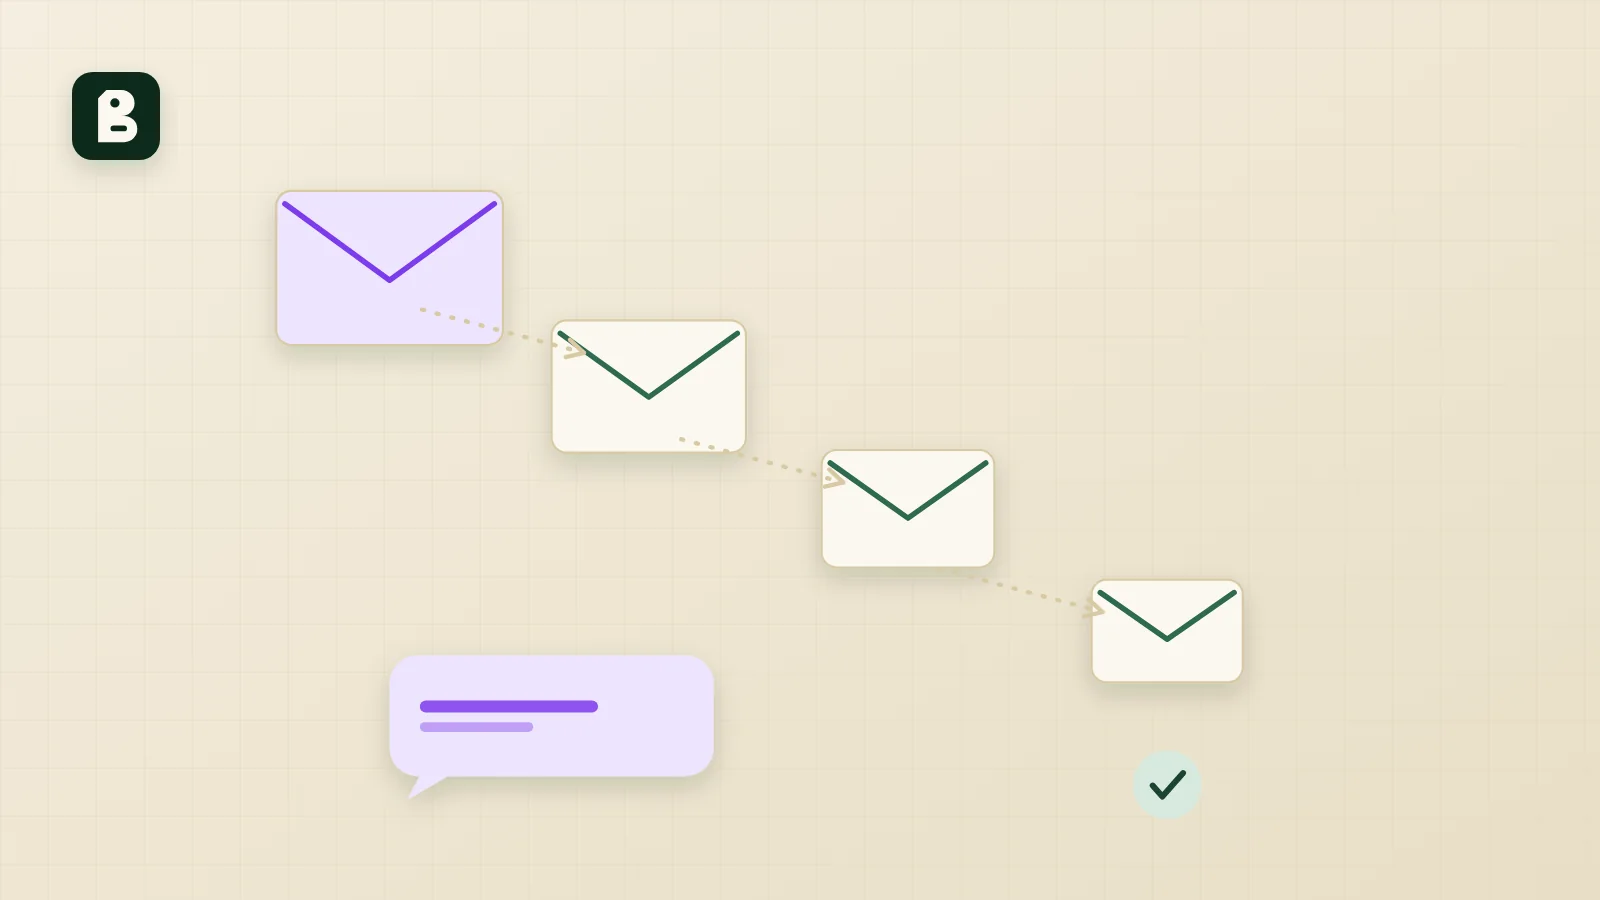
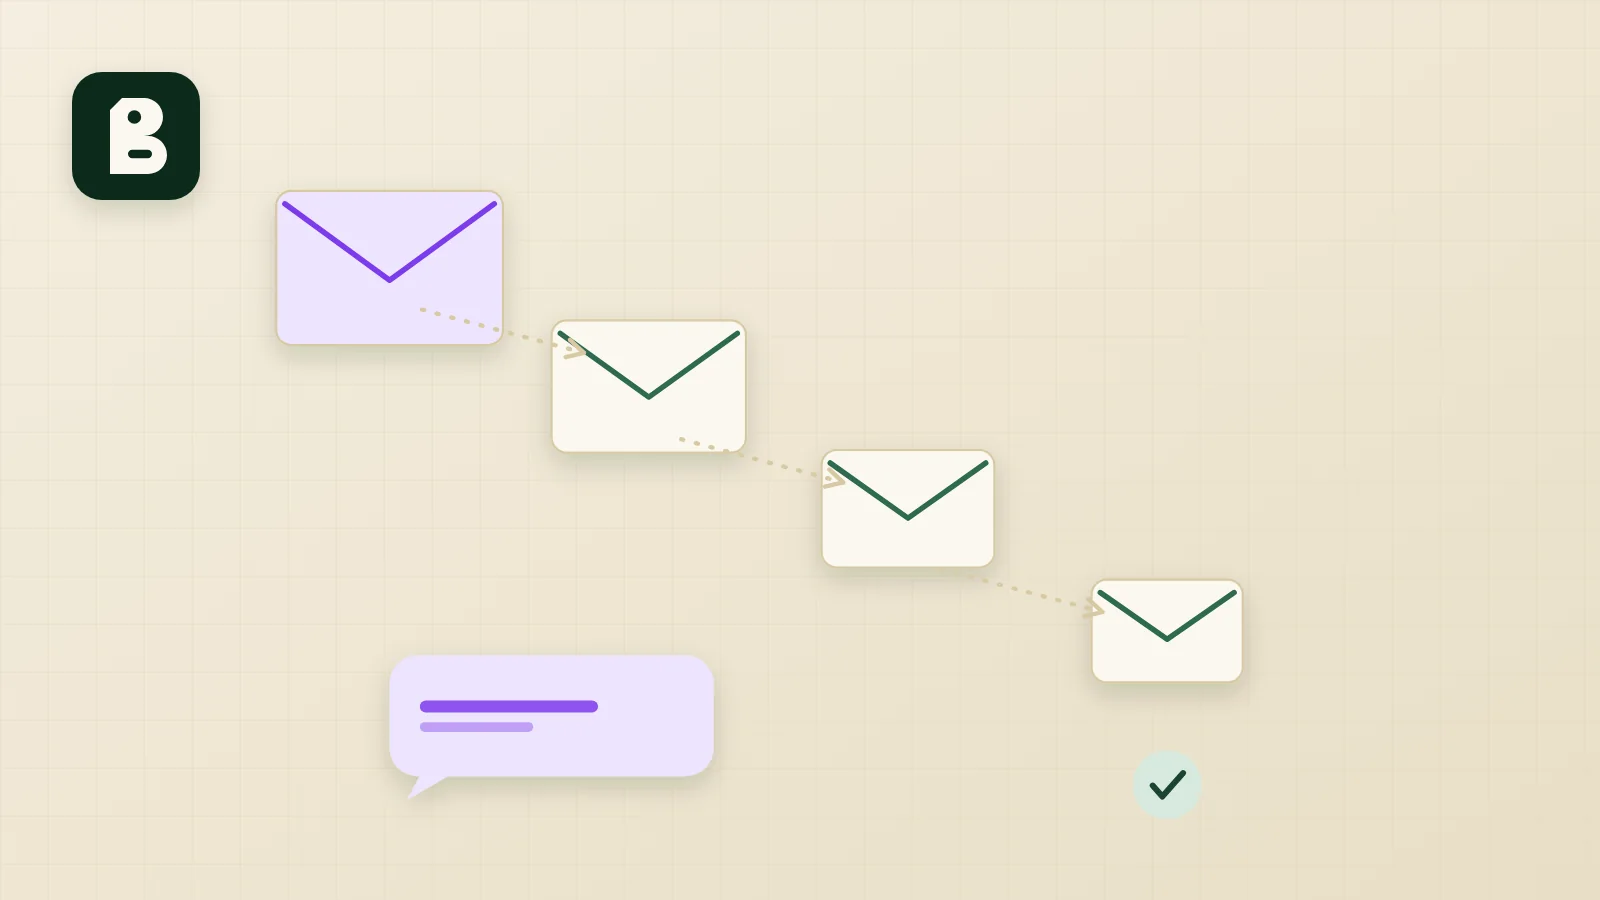
Benchmark images: larger top-left symbol (128 px)
Claude-Session: https://claude.ai/code/session_01MWx6XdsMUXGJsZSr37CFyH

Changed region(s): [[0.0312, 0.0622, 0.125, 0.2489]]

diff --git a/scripts/benchmarks/build.py b/scripts/benchmarks/build.py
@@ -27,7 +27,7 @@ def frame(body):
 <filter id="big" filterUnits="userSpaceOnUse" x="0" y="0" width="1600" height="900"><feDropShadow dx="0" dy="26" stdDeviation="26" flood-color="{F9}" flood-opacity=".38"/></filter></defs>
 <rect width="{W}" height="{H}" fill="url(#bg)"/><rect width="{W}" height="{H}" fill="url(#grid)"/>
 <g transform="translate(800 450) scale(1.08) translate(-1100 -450)">{body}</g>
-{symbol(72, 72, 88)}</svg>'''
+{symbol(72, 72, 128)}</svg>'''
 
 def envelope(x, y, w=150, fill=S50, flap=F5, shadow=True):
     h = w * .68

diff --git a/CLAUDE.md b/CLAUDE.md
@@ -1368,4 +1368,4 @@ Done when: site runs locally with `wrangler`-compatible dev, deploys a preview t
 - Long-form benchmarks (22 Nov 2026, amends section 138): each published benchmark is now a 2,500+ word article. Text lives in `lib/benchmarks-long/` (`cold`, `deliverability`, `decay`, `cycle` = main sections + FAQ per slug; `extra`, `extra2`, `extra3` = worked examples, glossaries, checklists, "how to weigh the evidence"; merged by `index.ts`, extras go before the last section). `components/benchmarks/md.tsx` renders a markdown-lite subset (paragraphs, `###`, lists, pipe tables, `**bold**`, links to a site path or https) as React elements. The page builds its TOC from the sections, adds a visible FAQ with FAQPage JSON-LD, and `benchWords` (pipes/separators excluded) drives reading time.
 - Source facts re-read on 22 Nov 2026 (Instantly, Validity PDF, ZeroBounce, Optifai). Every number is the source's, or plain arithmetic on it; worked examples are labelled "illustration only"; guidance that is not from the source says so. Added outside facts (FTC CAN-SPAM 10 business days, Google sender limits) are the ones checked on 18 Nov 2026. Validity's sector table lists 21 rows in the text we could read (the earlier summary said 23 sectors): the article says "21 we could read". Test `tests/benchmarks.test.ts` enforces >= 2,500 words, >= 5 FAQs, unique section ids and safe links. Re-check sources when new editions appear.
 
-- Benchmark images redesign (22 Nov 2026): the official symbol is now SMALL (88 px) in the TOP-LEFT corner with 72 px margin; the decorative motif is centred on the canvas (no big circle/ring). Alt texts still start with "BeigeLeads symbol beside" (test-enforced). Regenerate with `python3 scripts/benchmarks/build.py`.
+- Benchmark images redesign (22 Nov 2026): the official symbol is now SMALL-ish (128 px) in the TOP-LEFT corner with 72 px margin; the decorative motif is centred on the canvas (no big circle/ring). Alt texts still start with "BeigeLeads symbol beside" (test-enforced). Regenerate with `python3 scripts/benchmarks/build.py`.
